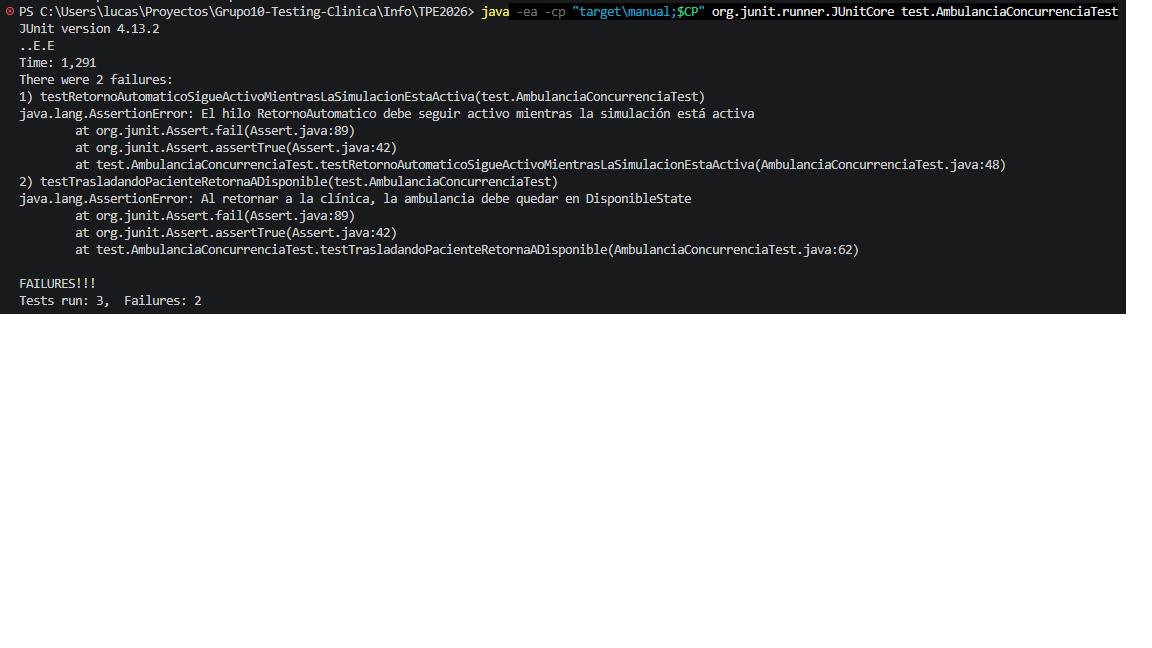
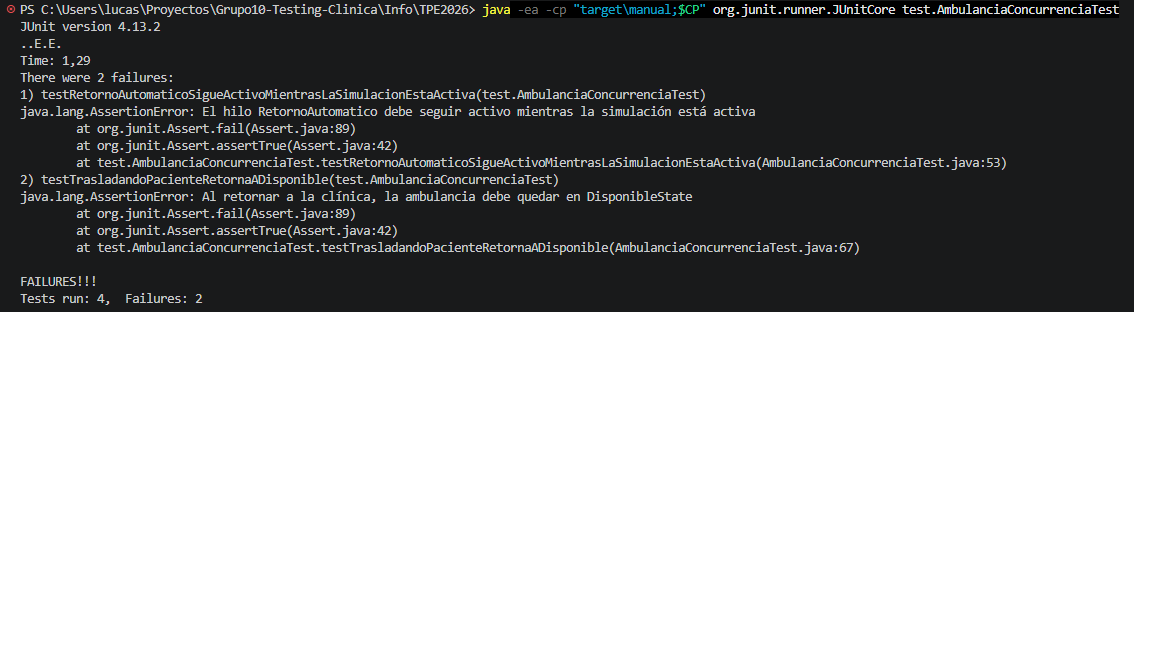
Consigna 3: agrego test del flujo completo de la maquina de estados

Changed region(s): [[0.0, 0.0, 1.0, 0.4938], [0.0, 0.4012, 0.1875, 0.4938]]

diff --git a/Clases Test/java/AmbulanciaConcurrenciaTest.java b/Clases Test/java/AmbulanciaConcurrenciaTest.java
@@ -5,10 +5,15 @@ import org.junit.Before;
 import org.junit.Test;
 
 import modelo.modeloDominio.ambulancia.Ambulancia;
+import modelo.modeloDominio.ambulancia.AtendiendoEnDomicilioState;
 import modelo.modeloDominio.ambulancia.DisponibleState;
+import modelo.modeloDominio.ambulancia.EnTallerState;
+import modelo.modeloDominio.ambulancia.RegresandoClinicaSinPacienteState;
+import modelo.modeloDominio.ambulancia.RegresandoDelTallerState;
 import modelo.modeloDominio.ambulancia.RetornoAutomatico;
 import modelo.modeloDominio.ambulancia.TrasladandoPacienteClinicaState;
 import modelo.modeloDominio.personas.asociado.Asociado;
+import modelo.modeloDominio.personas.operario.Operario;
 import modelo.modeloDominio.util.Domicilio;
 
 public class AmbulanciaConcurrenciaTest {
@@ -91,5 +96,44 @@ public class AmbulanciaConcurrenciaTest {
         hiloSocio.join(1000); // Esperamos a que el hilo complete
 
         assertFalse("El hilo del asociado debe haber desbloqueado y finalizado correctamente", hiloSocio.isAlive());
+    }
+    
+    // =========================================================================
+    // 3. FLUJO COMPLETO DE LA MÁQUINA DE ESTADOS ACOPLADA A AMBULANCIA
+    // =========================================================================
+
+    @Test
+    public void testFlujoCompletoMaquinaDeEstados() {
+        Domicilio dom = new Domicilio("Colón", 2000, "Mar del Plata");
+        Asociado asociado = new Asociado("Socio2", "Lopez", "33333333", "2231112222", dom);
+        Operario operario = new Operario("Op", "Garcia", "44444444", "2233334444", dom, ambulancia);
+
+        // Estado inicial
+        assertTrue("Estado inicial: Disponible", ambulancia.getEstadoActual() instanceof DisponibleState);
+        assertFalse(ambulancia.isOcupado());
+
+        // Ciclo de atención a domicilio: Disponible -> AtendiendoEnDomicilio -> RegresandoSinPaciente -> Disponible
+        ambulancia.atenderDomicilio(asociado);
+        assertTrue("Debe pasar a AtendiendoEnDomicilio", ambulancia.getEstadoActual() instanceof AtendiendoEnDomicilioState);
+        assertTrue(ambulancia.isOcupado());
+
+        ambulancia.regresarSinPaciente();
+        assertTrue("Debe pasar a RegresandoClinicaSinPaciente", ambulancia.getEstadoActual() instanceof RegresandoClinicaSinPacienteState);
+        assertFalse(ambulancia.isOcupado());
+
+        ambulancia.regresarSinPaciente();
+        assertTrue("Debe volver a Disponible", ambulancia.getEstadoActual() instanceof DisponibleState);
+
+        // Ciclo de mantenimiento: Disponible -> EnTaller -> RegresandoDelTaller -> Disponible
+        ambulancia.solicitarMantenimiento(operario);
+        assertTrue("Debe pasar a EnTaller", ambulancia.getEstadoActual() instanceof EnTallerState);
+        assertTrue(ambulancia.isOcupado());
+
+        ambulancia.volviendoDelTaller();
+        assertTrue("Debe pasar a RegresandoDelTaller", ambulancia.getEstadoActual() instanceof RegresandoDelTallerState);
+        assertFalse(ambulancia.isOcupado());
+
+        ambulancia.regresarSinPaciente(); // ejecuta RetornoClinica() sobre el estado actual
+        assertTrue("Debe volver a Disponible tras el taller", ambulancia.getEstadoActual() instanceof DisponibleState);
     }
 }

diff --git a/Info/TPE2026/src/main/java/test/AmbulanciaConcurrenciaTest.java b/Info/TPE2026/src/main/java/test/AmbulanciaConcurrenciaTest.java
@@ -5,10 +5,15 @@ import org.junit.Before;
 import org.junit.Test;
 
 import modelo.modeloDominio.ambulancia.Ambulancia;
+import modelo.modeloDominio.ambulancia.AtendiendoEnDomicilioState;
 import modelo.modeloDominio.ambulancia.DisponibleState;
+import modelo.modeloDominio.ambulancia.EnTallerState;
+import modelo.modeloDominio.ambulancia.RegresandoClinicaSinPacienteState;
+import modelo.modeloDominio.ambulancia.RegresandoDelTallerState;
 import modelo.modeloDominio.ambulancia.RetornoAutomatico;
 import modelo.modeloDominio.ambulancia.TrasladandoPacienteClinicaState;
 import modelo.modeloDominio.personas.asociado.Asociado;
+import modelo.modeloDominio.personas.operario.Operario;
 import modelo.modeloDominio.util.Domicilio;
 
 public class AmbulanciaConcurrenciaTest {
@@ -91,5 +96,44 @@ public class AmbulanciaConcurrenciaTest {
         hiloSocio.join(1000); // Esperamos a que el hilo complete
 
         assertFalse("El hilo del asociado debe haber desbloqueado y finalizado correctamente", hiloSocio.isAlive());
+    }
+    
+    // =========================================================================
+    // 3. FLUJO COMPLETO DE LA MÁQUINA DE ESTADOS ACOPLADA A AMBULANCIA
+    // =========================================================================
+
+    @Test
+    public void testFlujoCompletoMaquinaDeEstados() {
+        Domicilio dom = new Domicilio("Colón", 2000, "Mar del Plata");
+        Asociado asociado = new Asociado("Socio2", "Lopez", "33333333", "2231112222", dom);
+        Operario operario = new Operario("Op", "Garcia", "44444444", "2233334444", dom, ambulancia);
+
+        // Estado inicial
+        assertTrue("Estado inicial: Disponible", ambulancia.getEstadoActual() instanceof DisponibleState);
+        assertFalse(ambulancia.isOcupado());
+
+        // Ciclo de atención a domicilio: Disponible -> AtendiendoEnDomicilio -> RegresandoSinPaciente -> Disponible
+        ambulancia.atenderDomicilio(asociado);
+        assertTrue("Debe pasar a AtendiendoEnDomicilio", ambulancia.getEstadoActual() instanceof AtendiendoEnDomicilioState);
+        assertTrue(ambulancia.isOcupado());
+
+        ambulancia.regresarSinPaciente();
+        assertTrue("Debe pasar a RegresandoClinicaSinPaciente", ambulancia.getEstadoActual() instanceof RegresandoClinicaSinPacienteState);
+        assertFalse(ambulancia.isOcupado());
+
+        ambulancia.regresarSinPaciente();
+        assertTrue("Debe volver a Disponible", ambulancia.getEstadoActual() instanceof DisponibleState);
+
+        // Ciclo de mantenimiento: Disponible -> EnTaller -> RegresandoDelTaller -> Disponible
+        ambulancia.solicitarMantenimiento(operario);
+        assertTrue("Debe pasar a EnTaller", ambulancia.getEstadoActual() instanceof EnTallerState);
+        assertTrue(ambulancia.isOcupado());
+
+        ambulancia.volviendoDelTaller();
+        assertTrue("Debe pasar a RegresandoDelTaller", ambulancia.getEstadoActual() instanceof RegresandoDelTallerState);
+        assertFalse(ambulancia.isOcupado());
+
+        ambulancia.regresarSinPaciente(); // ejecuta RetornoClinica() sobre el estado actual
+        assertTrue("Debe volver a Disponible tras el taller", ambulancia.getEstadoActual() instanceof DisponibleState);
     }
 }
